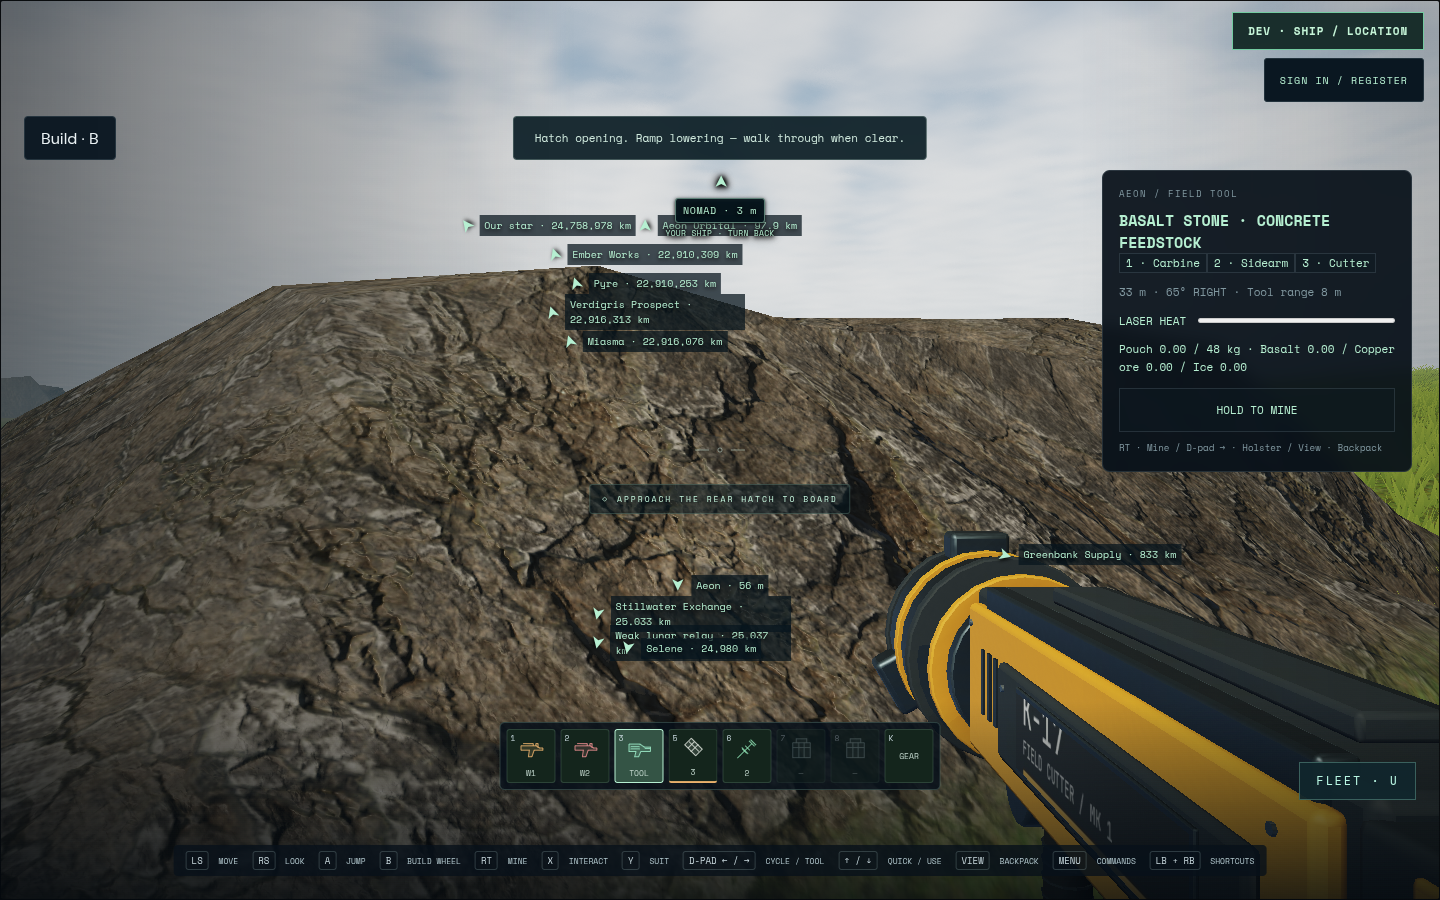
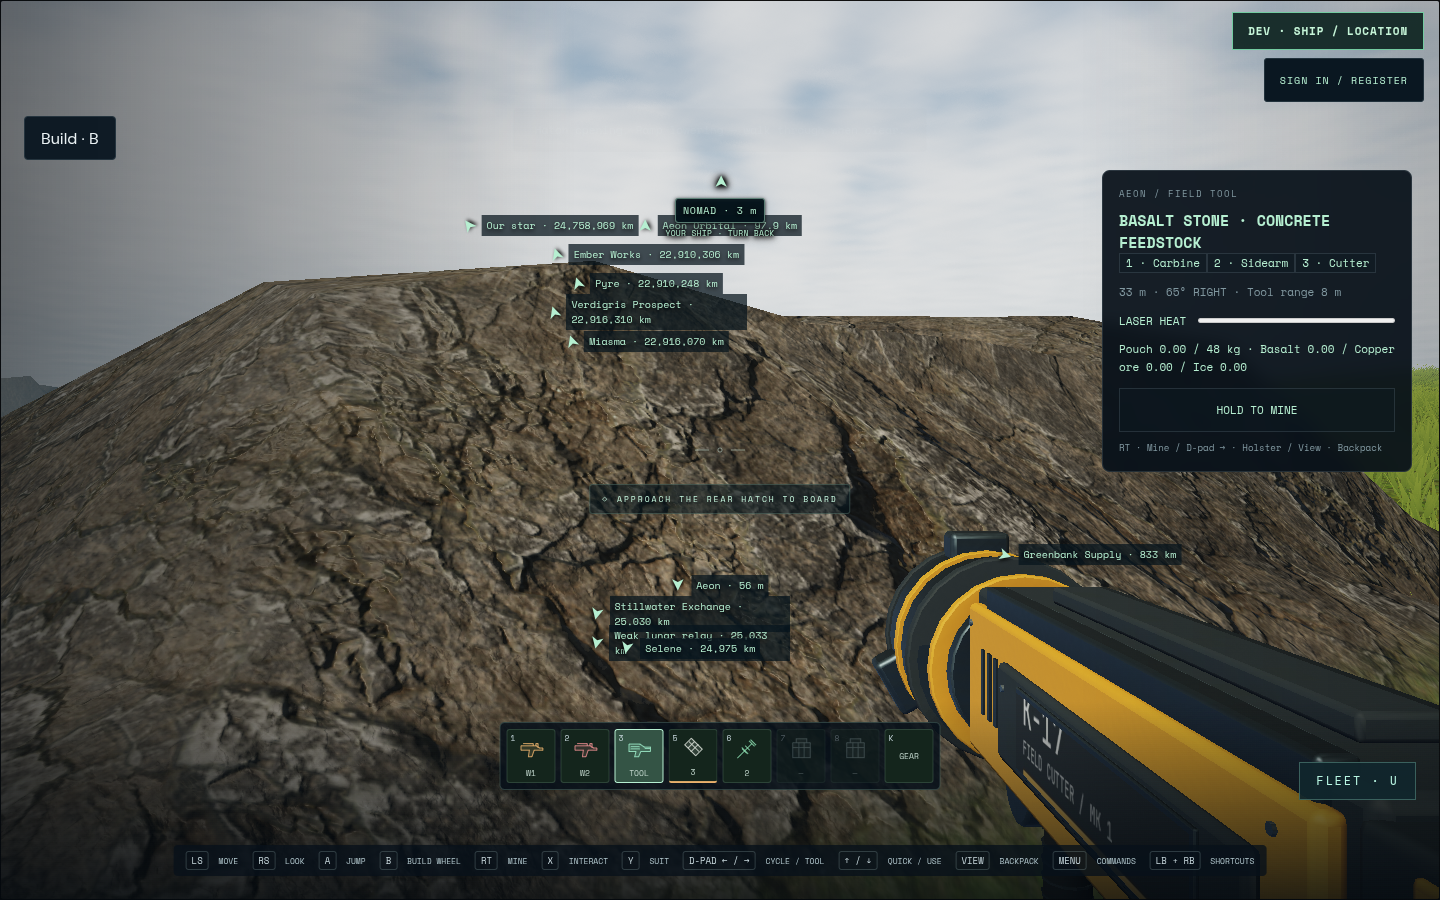
Record checked planetary rotation and local preview delivery

diff --git a/docs/qa/planet-rotation/README.md b/docs/qa/planet-rotation/README.md
@@ -1,60 +1,87 @@
-# Planetary rotation — development evidence
+# Planetary rotation — local development evidence
 
-SA-WORLD-004, isolated `.worktrees/planet-rotation`, `feat/planet-rotation` from
-`f1ef821`. Implementation is present; final combined validation and integration
-are in progress. No independent acceptance, physical-device test or deployment
-is claimed. [Decision](../../decisions/planet-rotation.md).
+SA-WORLD-004 is implemented, validated and locally integrated at `8f819ac` on
+2026-09-09. The paired 5178/API8087 preview serves protocol 9. This checkpoint
+preserves checked faction/vacuum-base delivery `2a6e405`. Independent domain/art
+review, physical devices and release performance acceptance remain pending;
+no public deployment is claimed. [Handoff](handoff.md),
+[decision](../../decisions/planet-rotation.md), [curated receipt](evidence.json).
 
 ## Checks and limits
 
 - Nine numerical invariants cover disjoint domains, terrain/save anchors through
   a day on all worlds, double precision, moving arrivals with/without spool,
   frame position/attitude/momentum, inertial flight and render-root boundaries.
-- Eight authoritative regressions cover cross-frame hitscan, continuous swept hull
-  contact, polar reconciliation, protected station rams, parked-hull EVA access,
-  boundary boarding and carried cabin collision. Actual
-  room snapshots also synchronize two skewed client clocks through a complete
-  day while preserving station/parked-hull anchors.
-- Freight authority and isolated PostgreSQL persistence pass at a deterministic
-  clear departure phase. Real wall-clock phases can correctly block the direct
-  line through a planet; this fixture does not certify a physical freight journey.
-- Latest source passes all 1,217 normal tests across 160 files (63.5 seconds),
-  plus 204 multiplayer cases with two existing opt-in skips (100.4 seconds).
-  Focused boundary/navigation/travel checks pass all 118 cases. Parked cabins
-  retain their hull frame while an EVA character crosses the domain; boarding
-  preserves physical attitude and inherited velocity, and collision correction
-  keeps a moving cabin and its carried eye in the same coordinate chart.
-- The update-time target lock uses the same rotation phase as engage; 23 focused
-  rotation/targeting/travel cases pass, including the actual foreign bearing at a
-  quarter-turn. Final combined browser verification follows.
-- PR104 hosted checks on final runtime `a4d07d4` pass all five jobs (run
-  `34289735420`), including isolated PostgreSQL persistence and the existing
-  browser regression suite. Dedicated shared-clock/drive evidence follows separately.
+- Eight authoritative regressions cover cross-frame hitscan, swept hull contact,
+  polar reconciliation, station rams, parked-hull EVA, boundary boarding and
+  carried-cabin collision. Actual room snapshots synchronize two skewed clocks
+  through a full day while preserving station and parked-hull anchors.
+- Combined runtime `7c6169c` / delivery `8f819ac`: all **1,233 normal cases** across
+  162 files pass (31.05s); **204 multiplayer cases pass**, with two existing opt-in
+  skips (37.59s), including isolated PostgreSQL freight persistence. Production
+  build passes 20.21s; repository, suggested-plan and diff checks pass.
+- Composition preserves Miasma's canonical camera, parked-hull transform and new
+  canonical construction-claims argument, plus both normal test inventories.
+  No server/navigation/client source changed during that composition.
+- Hosted run34289735420 passes all five checks on pre-composition runtime
+  `a4d07d4`. The new combined branch's hosted result is tracked separately; the
+  preceding pass is not represented as a later-head pass.
+- Freight authority fixtures use a deterministic clear departure phase. Other
+  phases can correctly block a straight route through a planet. This does not
+  certify every physical freight journey or add curved/moving-obstacle routing.
 
-The first production orbital inspection passed all four worlds in 57 seconds,
-with eight PNGs and no application errors. Chromium 151.0.7922.173, ANGLE OpenGL,
-AMD Radeon 860M (radeonsi, krackan1, ACO), 1440x900 at scale1. Orbital poses were
-explicit debug fixtures. Images show moving geography and stable inertial sky;
-LOD streaming was still settling, so this is not performance or maximum-LOD
-acceptance. Combined browser04 repeats the orbital inspection successfully (1.2 minutes) and
-completes the full injected-controller ground journey (1.3 minutes): land, stand,
-hatch, walk, half-day change, inventory, held-input suppression on modal exit and
-device reconnect, return, board and launch. No pose writes; only the clock is
-accelerated. The surface sun dot changes from 0.6417 to -0.4580; ground drift stays
-under 0.1m and the parked hull under 0.00001m. Application errors are empty.
+## Production browser evidence
+
+Chromium 151.0.7922.173, ANGLE OpenGL, AMD Radeon 860M (radeonsi krackan1 ACO),
+1440×900 scale 1, seed 7291. Application page/console error arrays are empty in
+all passed cases. Physical controller hardware was not tested.
+
+Browser04 passes all four worlds at two phases and the complete controller
+ground journey. Orbital poses are explicit inspection fixtures; geography turns
+against the stable inertial sky. LOD is still streaming in these captures, so
+this is shader/render evidence, not maximum-detail or performance acceptance.
+
+Browser06 repeats the complete injected-standard-Gamepad ground journey on
+runtime `a4d07d4` in 1.4 min: land, stand, hatch, walk, half-day change, inventory,
+held-input suppression across modal exit and device reconnect, return, board and
+launch. No pose writes; only the clock is accelerated. Sun dot changes
+**0.6470→−0.4635**, ground drift is 0.00361m, and parked-hull drift is exactly 0m.
+The final mode is flight. Navigation and ground-control bytes remain unchanged
+in the subsequent faction composition.
+
+Browser09 passes both final cases on combined `8f819ac` in 2.7 min:
+
+- **Visible-moon controller drive,50.4s:** actual sticks acquire Selene, the
+  shoulder chord engages travel, and129 recorded frames include113 active-drive
+  samples across Aeon→inertial→Selene. Arrival altitude is 20,000.016m, with normal
+  flight restored. The preflight Aeon Orbital marker agrees with its transformed
+  distance. The arrival image captures the normal LOD fallback while detail streams.
+- **Two authenticated clients,1.7min:** the second OS clock is deliberately
+  seven minutes ahead. Server synchronization meets the0.5s comparison bound;
+  controller walking covers 2.796m, deck clearance stays 1.75m, and the peer render
+  position converges within 0.15m. Subsequent standing drift is 7.04e-9m while the
+  inertial position moves 9,338.98m with the world. Account credentials are typed;
+  controller B resumes the actual joined Pilot interface. Context closure prints
+  a Vite websocket ECONNRESET during teardown; application errors remain empty.
 
 ![Aeon before a quarter-turn](aeon-phase-a.png)
 ![Aeon after a quarter-turn](aeon-phase-b.png)
 ![Controller walking in daylight](surface-day.png)
-![The same surface after half a day](surface-night.png)
+![The same ground after half a day](surface-night.png)
+![Controller arrival above Selene](controller-moon-arrival.png)
+![Shared station contact](shared-station.png)
 
-Browser06 repeats the full ground controller journey on runtime `a4d07d4` successfully
-(1.4 minutes). Shared-clock and corrected targeted-drive verification remain pending.
+Use the dedicated `scripts/planet-rotation.config.js` with a unique
+`ROTATION_QA_RUN`, private5682/API8682, and a short disk-backed TMPDIR. Read the
+live HANDOFF and reserve the shared browser slot first. The config retains one
+worker/no retries and checks actual Node and controlled-Chromium processes.
 
 ## Failure ledger
 
 | Attempt | Actual result and correction |
 | --- | --- |
+| Composition repo06 | Checked Pirate003 source arrived before its integrated task status. Consumed actual parent delivery 2a6e405; repository checks then pass without taking an active claim. |
+| Served probe | Initial assertions guessed two export/launcher names. Read actual MULTIPLAYER_VERSION=9 and pirate-veil declarations, corrected only the probe; all nine routes then pass. Initial receipt retained. |
 | Initial frame tests | Eight-radius overlap assumption failed; disjoint three-radius domains introduced. |
 | Initial repository check | Invalid task status/area corrected to active/flight. |
 | Normal suite01 | 1182 pass / 18 failures (including parent cases): borrowed Navigation.update fixtures lacked updateLocal; wrapper now calls the prototype method. Focused 28-case mining regression then passed. |
@@ -69,7 +96,7 @@ Browser06 repeats the full ground controller journey on runtime `a4d07d4` succes
 | Browser04 | Orbital and complete controller cases pass. Two-client fixture fails before auth because it assumed the account dialog opened automatically; corrected to use the normal sign-in button. Original trace and screenshots retained. |
 | Browser03 | Cancelled during build to honor another queued GPU job; no browser acceptance. Playwright reused the output directory, so the earlier02 trace may have been erased. Surviving logs/PNGs are the retained evidence, not an asserted archived trace. Subsequent attempts use unique directories. |
 
-Raw local receipts are ignored under `test-results/planet-rotation/`. Only curated
-final PNGs and this handoff belong in Git. No public recordings or test accounts
+Raw local receipts are ignored under `test-results/planet-rotation/`. Curated images, the receipt and written
+records belong in Git. No public recordings or test accounts
 are retained. Physical-controller testing, independent domain/art review and
 release performance acceptance remain separate from injected controller checks.

diff --git a/docs/qa/planet-rotation/handoff.md b/docs/qa/planet-rotation/handoff.md
@@ -1,0 +1,79 @@
+# SA-WORLD-004 — local delivery, 2026-09-09
+
+Status: implemented, checked and locally integrated development checkpoint.
+Next owner: Cees for local play and product decisions; independent domain/art,
+physical-device and release performance acceptance remain separate.
+Branch `feat/planet-rotation`, base `f1ef821`, runtime `7c6169c`, integrated
+`8f819ac` after checked faction/vacuum-base delivery `2a6e405`.
+Draft PR104 tracks this work. Owned paths are in `project/tasks/SA-WORLD-004.json`.
+Private worktree `.worktrees/planet-rotation`; private5682/API8682 jobs have exited.
+
+## What changed and what remains
+
+Aeon, Selene, Pyre and Miasma rotate around Y on a 60-minute day. Centres retain
+existing positions. Terrain, station, settlement, building, mining and parked-hull
+anchors remain canonical body-fixed double metres; sunlight and sky evolve.
+Disjoint three-radius coordinate domains preserve physical position, attitude and
+velocity across transitions. Existing eight-radius gravity/navigation domains
+are unchanged. Parked EVA/boarding and carried-cabin collision use the hull's
+actual coordinate frame. Drive navigation leads rotating arrivals.
+
+Protocol9 shares server planetary time and peer coordinate frames. Existing
+terrain seeds and surface saves remain compatible; no database migration.
+Straight routes may be blocked by a planet at some phases. This does not add
+curved route finding, tilted axes, moving body centres or N-body dynamics.
+Existing assisted flight/stabilized EVA and pause semantics remain in place.
+
+## Validation
+
+Combined `8f819ac` passes 1233 normal cases/162files31.05s,204 multiplayer cases
+with 2 existing opt-in skips37.59s (including actual PostgreSQL freight persistence),
+production build20.21s, repository checks and suggested plan. Nine numerical and
+eight authority/room regressions cover the new frame contracts. Hosted all five
+pass at preceding runtime a4d07d4/run34289735420; do not infer later-head results.
+
+Production Chromium 151.0.7922.173, AMD 860M ANGLEgl,1440×900 scale 1, seed 7291.
+Four-world/two-phase rendering04 passes. Complete injected-controller ground06
+passes1.4min on unchanged navigation bytes: landing, hatch, walking/day-night,
+inventory, held-input modal/reconnect suppression, boarding and launch. Sun dot
+0.6470→−0.4635; ground drift 0.00361m, parked hull 0m. Combined09 passes actual
+controller moon acquisition/travel50.4s and two real-client station/clock1.7min.
+129 drive samples cross Aeon→inertial→Selene, arrival 20,000.016m. Two clocks skewed
+seven minutes converge within 0.5s; actual controller walking/peer convergence and
+stationary deck contact pass. Credentials are typed before controller play.
+Application error arrays are empty; Vite logs ECONNRESET when a test context closes.
+
+The adjacent README retains all failed fixture assumptions and scheduling
+interruptions.08 overlapped a peer launch due its omitted CLI spelling; only our
+own CLI was gracefully stopped. Guards now recognize all observed Node forms and
+controlled Chromium. No browser startup failure was disguised or retried with
+security/backend changes. Curated images/receipt are committed; raw logs/traces
+remain ignored in test-results/planet-rotation. Physical-controller/native-touch
+rotation journeys, independent art/domain review and performance remain unclaimed.
+
+## Integration and operations
+
+Local dev/all-features fast-forwarded2a6e405→8f819ac at00:13:49UTC. The exact dirty
+shared HANDOFF remained 520678 bytes, SHA256
+2f201781af25958b2287a4e28a4a172a83f4b77b143bcd0c93b53edf4bc45823.
+Managed star-agent-persistent-preview.service gracefully refreshed the existing
+5178/API8087 pair, MainPID2330283, protocol 9. Nine served routes and both health
+checks pass; existing PostgreSQL 51224/public table counts are unchanged, with four
+existing migrations and no schema/reset. Later handoff updates are append-only.
+The managed service remains running; all private browser/server jobs exited.
+No public/main merge, remote dev protection bypass or public deployment occurred.
+
+Composition preserved Miasma's canonical camera and transformed parked-hull
+argument while adding canonical construction claims; no claim-frame rotation is
+needed because saved claims are already canonical. Both test inventories and
+all checked faction/pirate source/evidence are retained. Keep garage interactions
+installed before pirate hooks. Future integrations must retain rotation fields
+and coordinate transforms; never replace protocol 9 with a lower pending version.
+Deep-space authored points remain inertial; surface destinations remain canonical.
+
+## Resume here
+
+Refresh http://127.0.0.1:5178/ and use normal flight, walking, building and map
+controls. No rotation toggle or new binding is required. Review the coordinate
+ADR and this evidence before changing world/navigation/render/server hooks.
+Cees retains product and public release authority.

diff --git a/docs/briefs/planet-rotation.md b/docs/briefs/planet-rotation.md
@@ -1,25 +1,20 @@
 # Planetary rotation
 
-Cees requests spinning planets. Work in progress on `feat/planet-rotation` from
-`f1ef821`; private preview port 5682. No integration or deployment yet.
+Cees requested spinning planets. The feature is locally integrated into
+`dev/all-features` at `8f819ac`, with checked faction/vacuum-base delivery 2a6e405
+preserved. The paired 5178/API8087 preview serves protocol 9; no public deployment.
 
-Implement axial rotation of Aeon, Selene, Pyre and Miasma, with fixed existing
-body centres and a default 60-minute day. Keep terrain generation, persisted
-surface anchors, construction, mining and parked vehicles in body-fixed metres.
-Render the surface, atmosphere, sunlight and stars in consistent frames, and
-preserve inertial pose/momentum across transitions into deep space. Existing
-navigation and controller interactions remain the entry path; no new binding.
+Aeon, Selene, Pyre and Miasma rotate around Y on a default 60-minute day. Existing
+body centres, canonical terrain, building/mining saves and parked-hull anchors
+stay intact. Sunlight, sky, atmosphere and surface rendering share consistent
+frames. Flight/boarding/collision preserve physical poses and velocity across
+three-radius rotation domains; existing eight-radius gravity domains are unchanged.
+Server time and peer frames synchronize online play; no schema migration.
 
-Acceptance requires numerical frame/terrain/precision/route checks, normal and
-multiplayer regression checks, a production WebGL frame inspected at several
-phases, and an actual controller journey through launch, flight, landing and
-return to play. Physical controller testing is reported separately. Surface
-save compatibility and shared clock/protocol adoption must be explicit.
-
-An initial numerical test disproved the assumption that the existing eight-radius
-navigation domains are disjoint: Pyre and Miasma overlap. Rotation charts use
-three radii, leaving a gap without changing the existing gravity-domain policy.
-The combined runtime passes 1,216 normal tests, 201 multiplayer checks with two
-existing optional skips, production build and repository checks. Four-world WebGL
-inspection and the full ground controller journey pass; final two-client browser
-and targeted-drive cases remain pending. See the current [QA record](../qa/planet-rotation/README.md).
+Combined checks pass 1233 normal cases,204 multiplayer cases with 2 existing skips,
+production build and repository checks. Four-world phase rendering and full
+controller landing/day-night/boarding/launch pass. Combined controller moon drive
+and two authenticated skewed-clock station clients pass in browser09.
+See the [QA record](../qa/planet-rotation/README.md) and
+[handoff](../qa/planet-rotation/handoff.md) for exact source and retained failures.
+Physical devices, independent domain/art and performance acceptance remain pending.

diff --git a/docs/development/status.md b/docs/development/status.md
@@ -1,12 +1,14 @@
 # Verified development status
 
-**Snapshot: 2026-09-08, medium ships integrated locally at `b793921` (runtime `3cf80ad`).** This page states
+**Latest local checkpoint: 2026-09-09, planetary rotation at `8f819ac`.** Named
+older checkpoints below retain their own evidence scope. This page states
 capabilities and gaps; [ROADMAP](../../ROADMAP.md) states ambitions. New governance
 and tooling changes do not certify the entire game as finished.
 
 | Area | Evidence-backed development state | Material gaps |
 | --- | --- | --- |
 | Worlds | Seeded Aeon, Selene, Pyre, Miasma, stellar encounter and canonical rock relief integrated; actual five-world browser tour | Broad visual/performance acceptance, hydrology, caves, shared dynamic weather |
+| Planetary rotation | Locally integrated `8f819ac`: all four landable worlds spin on 60-minute days, with stable canonical terrain/building/parked-hull anchors, changing sunlight and shared protocol 9 time; controller ground/drive and two-client clock checks pass | Fixed body centres and existing assisted/EVA semantics; physical devices, independent domain/art and release performance acceptance pending. [Evidence](../qa/planet-rotation/README.md) |
 | Flight | Continuous flight, targeted/heading drive, gear limits, finite-thrust momentum, combat/cruise modes, differentiated handling, crashes and moving cabins | Complete fleet/server parity and deeper engineering |
 | Ships | Flyable Nomad 02, Kestrel, current 64 m Atlas, 18 m Stratum miner and 24 m Gannet rover transport; physical boarding, mining and loaded-flight journeys pass | Medium hulls are solo/development only; broad fleet performance, final Atlas materials and Kestrel ladder animation remain open |
 | Station | Authored exterior and enlarged 20-berth station are default; physical community hub, finite market, defense and animated shopkeepers integrated | Final exterior materials, broad firing arcs and wider multi-user acceptance remain open |

diff --git a/docs/local-development.md b/docs/local-development.md
@@ -1,5 +1,20 @@
 # All-features local development
 
+**Spinning planets** are locally integrated at `8f819ac`. Aeon, Selene, Pyre and
+Miasma complete a day in 60 real minutes, with changing sunlight while ground,
+bases and parked ships remain attached. Existing saves and controls are retained.
+Refresh **http://127.0.0.1:5178/**; the paired 5178/API8087 service was gracefully
+refreshed on2026-09-09 with protocol 9 and its existing persistent database.
+The checked faction finishes and Hush/Veil habitats remain included.
+
+Combined 1233 normal tests,204 multiplayer tests (2 existing optional skips), build,
+controller moon drive and two-client shared-clock checks pass. The full ground
+controller/day-night/boarding journey and all-four-world render inspection also
+pass on their recorded sources. [Player guide](planet-rotation.md) and
+[exact evidence/remaining review](qa/planet-rotation/README.md). This is a local
+development checkpoint; physical devices, independent review and performance
+acceptance remain separate, with no public deployment.
+
 
 Checked faction/compound source **e25c7d0** is locally integrated and served on
 5178 with the existing persistent API8087. The paired service refreshed on
@@ -744,7 +759,7 @@ Ceiling lights remain in **Roofs**. The same normal power and placement rules ap
 Use **F2 → a settlement** to inspect the commissioned lights, or **Build sandbox**
 for construction. The [asset and gameplay record](qa/outdoor-floodlights/README.md)
 contains night before/after views, controller/phone evidence and measured costs.
-Integrated locally at `8566a43`; the existing5178 preview/API refreshed together
+Integrated locally at `8566a43`; the existing 5178 preview/API refreshed together
 and served asset/source checks passed. Refresh the page to load the masts.
 Independent art and hardware/performance acceptance remain pending.
 
